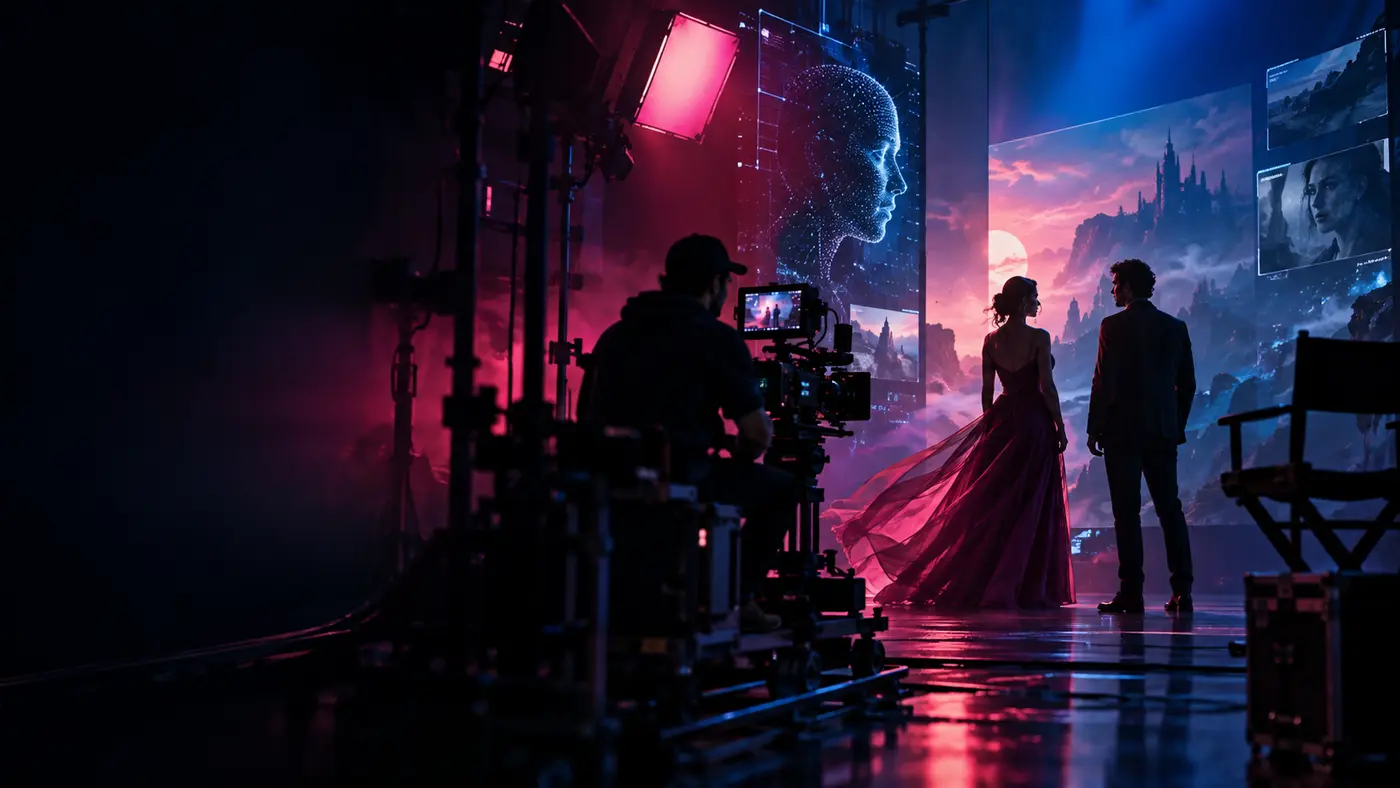
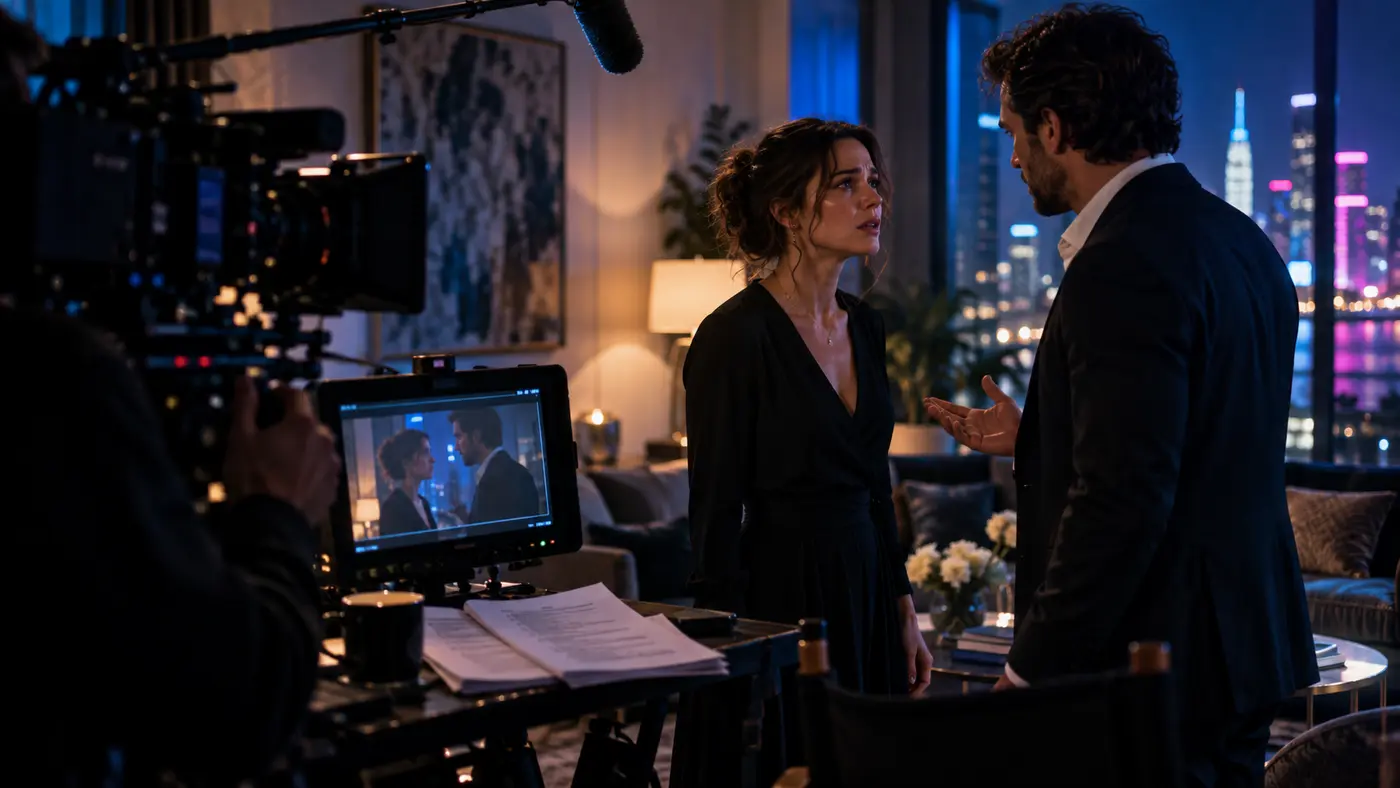
feat: add visual covers to every skill and course

diff --git a/src/lib/data/discovery-items.ts b/src/lib/data/discovery-items.ts
@@ -30,6 +30,7 @@ export const DISCOVERY_ITEMS: DiscoveryItem[] = [
     slug: "ai-automation",
     title: "AI Automation",
     type: "skill",
+    coverImage: "/course-covers/ai-automation.webp",
     filterKeys: ["for_you", "trending", "skills", "build"],
     categoryLabel: "SKILL • TRENDING",
     shortDescription:
@@ -106,6 +107,7 @@ export const DISCOVERY_ITEMS: DiscoveryItem[] = [
     slug: "building-you-the-brand-course",
     title: "Building You, The Brand",
     type: "course",
+    coverImage: "/course-covers/building-you-brand.webp",
     filterKeys: ["for_you", "learn", "trending"],
     categoryLabel: "COURSE • IMPACT ACADEMIA",
     shortDescription: "Learn how to build real capability underneath your personal brand.",
@@ -184,6 +186,7 @@ export const DISCOVERY_ITEMS: DiscoveryItem[] = [
     slug: "freelance-copywriting",
     title: "Freelance Copywriting",
     type: "skill",
+    coverImage: "/course-covers/freelance-copywriting.webp",
     filterKeys: ["skills", "money"],
     categoryLabel: "SKILL",
     shortDescription: "Write sales pages and emails that convert — and get paid to do it for others.",
@@ -209,6 +212,7 @@ export const DISCOVERY_ITEMS: DiscoveryItem[] = [
     slug: "excel-dashboards-for-beginners",
     title: "Excel Dashboards for Beginners",
     type: "course",
+    coverImage: "/course-covers/excel-dashboards.webp",
     filterKeys: ["learn", "skills", "for_you"],
     categoryLabel: "COURSE • IMPACT ACADEMIA",
     shortDescription: "Turn raw spreadsheets into dashboards that make decisions easier.",
@@ -232,6 +236,7 @@ export const DISCOVERY_ITEMS: DiscoveryItem[] = [
     slug: "video-editing-for-creators",
     title: "Video Editing for Creators",
     type: "course",
+    coverImage: "/course-covers/video-editing.webp",
     filterKeys: ["learn", "skills"],
     categoryLabel: "EXTERNAL COURSE",
     shortDescription: "A well-regarded external course on short-form video editing.",
@@ -349,6 +354,7 @@ export const DISCOVERY_ITEMS: DiscoveryItem[] = [
     slug: "salary-negotiation-basics",
     title: "Salary Negotiation Basics",
     type: "skill",
+    coverImage: "/course-covers/salary-negotiation.webp",
     filterKeys: ["skills", "money", "for_you"],
     categoryLabel: "SKILL",
     shortDescription: "Learn the handful of moves that account for most successful negotiations.",
@@ -536,6 +542,7 @@ export const DISCOVERY_ITEMS: DiscoveryItem[] = [
     slug: "public-speaking-fundamentals",
     title: "Public Speaking Fundamentals",
     type: "skill",
+    coverImage: "/course-covers/public-speaking.webp",
     filterKeys: ["skills", "for_you"],
     categoryLabel: "SKILL",
     shortDescription: "Learn to structure and deliver a talk people actually remember.",

diff --git a/src/lib/data/courses.ts b/src/lib/data/courses.ts
@@ -85,6 +85,7 @@ export const COURSES: Course[] = [
     title: "Building You, The Brand",
     shortDescription: "Learn how to build real capability underneath your personal brand.",
     coverGradient: "from-pink to-blue",
+    coverImage: "/course-covers/building-you-brand.webp",
     instructor: "Olivia Byamukama",
     instructorTitle: "Founder, Innergency",
     builds:
@@ -301,6 +302,7 @@ export const COURSES: Course[] = [
     title: "AI Automation Foundations",
     shortDescription: "Build your first real automation and learn to spot where AI fits in a workflow.",
     coverGradient: "from-blue to-ink",
+    coverImage: "/course-covers/ai-automation.webp",
     instructor: "Innergency Labs",
     instructorTitle: "Impact Academia",
     builds: "The ability to map a manual process and build a working automation that removes it.",
@@ -499,6 +501,7 @@ export const COURSES: Course[] = [
     title: "Excel Dashboards for Beginners",
     shortDescription: "Turn raw spreadsheets into dashboards that make decisions easier.",
     coverGradient: "from-blue-dim to-blue",
+    coverImage: "/course-covers/excel-dashboards.webp",
     instructor: "Innergency Labs",
     instructorTitle: "Impact Academia",
     builds: "The ability to clean raw data and present it as a clear, decision-ready dashboard.",
@@ -588,6 +591,7 @@ export const COURSES: Course[] = [
     title: "Video Editing for Creators",
     shortDescription: "A well-regarded external course on short-form video editing.",
     coverGradient: "from-pink-dim to-pink",
+    coverImage: "/course-covers/video-editing.webp",
     instructor: "External Provider",
     builds: "Practical short-form video editing skills for marketing and social content.",
     whoItsFor: "Beginners who want to edit marketing or social video professionally.",
